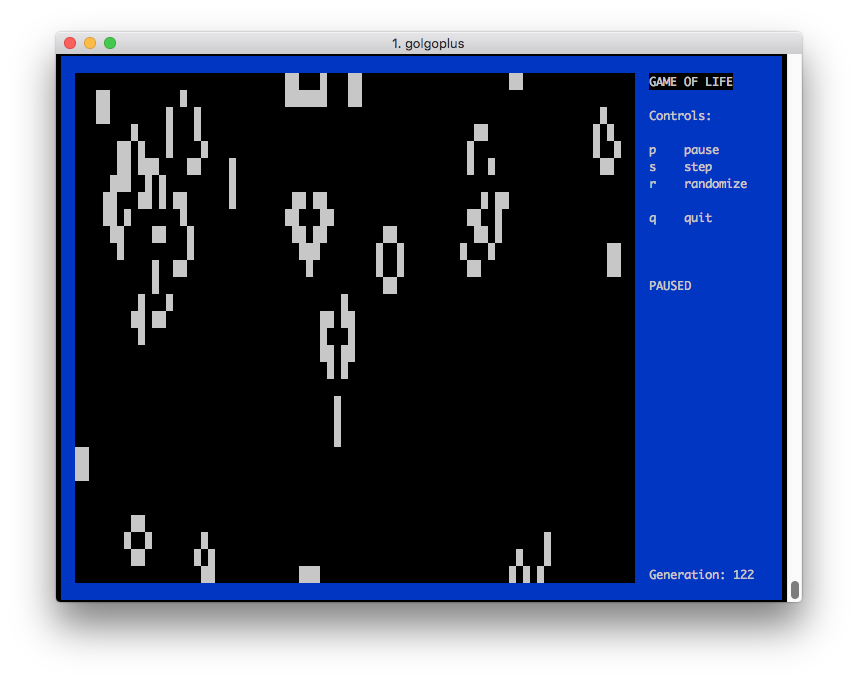
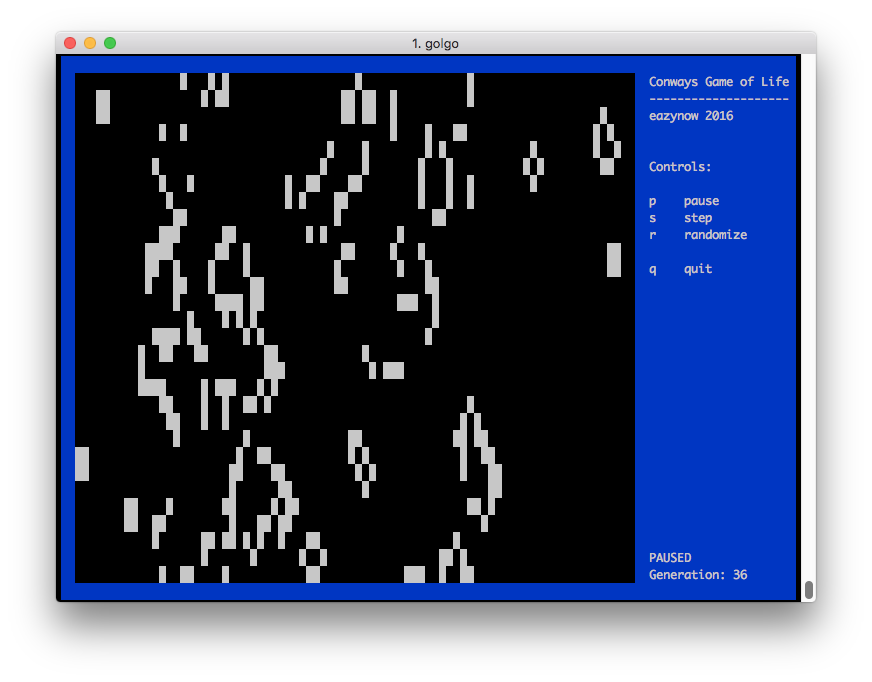
Tweaked UI layout, updated screenshot and added a gitignore

diff --git a/golgo.go b/golgo.go
@@ -10,8 +10,6 @@ import (
 )
 
 const (
-	title = "GAME OF LIFE"
-
 	gameBorderCol   = 2
 	gameBorderRow   = 1
 	textColor       = termbox.ColorWhite
@@ -19,6 +17,12 @@ const (
 	cellColor       = termbox.ColorWhite
 	boardColor      = termbox.ColorBlack
 )
+
+var titles = []string{
+	"Conways Game of Life",
+	"--------------------",
+	"eazynow 2016",
+}
 
 var instructions = []string{
 	"Controls:",
@@ -152,16 +156,18 @@ func (l *Life) Render() {
 
 	titleX := l.w + (gameBorderCol * 2)
 	titleY := gameBorderRow
-	tbprint(titleX, titleY, cellColor, boardColor, title)
+	for y, t := range titles {
+		tbprint(titleX, titleY+y, textColor, backgroundColor, t)
+	}
 
 	instrucX := titleX
-	instrucY := titleY + 2
+	instrucY := titleY + len(titles) + 2
 	for y, i := range instructions {
 		tbprint(instrucX, instrucY+y, textColor, backgroundColor, i)
 	}
 
 	pauseX := titleX
-	pauseY := instrucY + len(instructions) + 2
+	pauseY := gameBorderRow + l.h - 2
 
 	pauseMsg := "RUNNING"
 	if l.paused {
@@ -171,7 +177,7 @@ func (l *Life) Render() {
 	tbprint(pauseX, pauseY, textColor, backgroundColor, pauseMsg)
 
 	genX := titleX
-	genY := gameBorderRow + l.h - 1
+	genY := pauseY + 1
 
 	tbprint(genX, genY, textColor, backgroundColor, fmt.Sprintf("Generation: %d", l.generation))
 

diff --git a/README.md b/README.md
@@ -1,23 +1,23 @@
-# golgoplus - Conways Game of Life in Go (Plus Edition)
+# golgo - Conways Game of Life in Go
 
 This expands upon the simple example of [Conways Game of Life](https://en.wikipedia.org/wiki/Conway%27s_Game_of_Life) 
 written in go [provided by Google](https://golang.org/doc/play/life.go)
-by providing a richer interface (thanks to termbox)
+by adding a richer interface (thanks to termbox) and more features
 
 ![alt text][logo]
-[logo]: https://raw.githubusercontent.com/eazynow/golgoplus/master/screenshot.png "Screenshot"
+[logo]: https://raw.githubusercontent.com/eazynow/golgo/master/screenshot.png "Screenshot"
 
 
 ## Requirements
 
-golgoplus should work with go versions 1.2 or greater.
+golgo should work with go versions 1.2 or greater.
 
 
 ## Installation
 
-To install golgoplus, use `go get`:
+To install golgo, use `go get`:
 ```
-go get github.com/eazynow/golgoplus
+go get github.com/eazynow/golgo
 ```
 
 ## Usage
@@ -25,7 +25,7 @@ go get github.com/eazynow/golgoplus
 To play the simulation, just run
 
 ```
-$ $GOPATH/bin/golgoplus
+$ $GOPATH/bin/golgo
 ```
 
 
